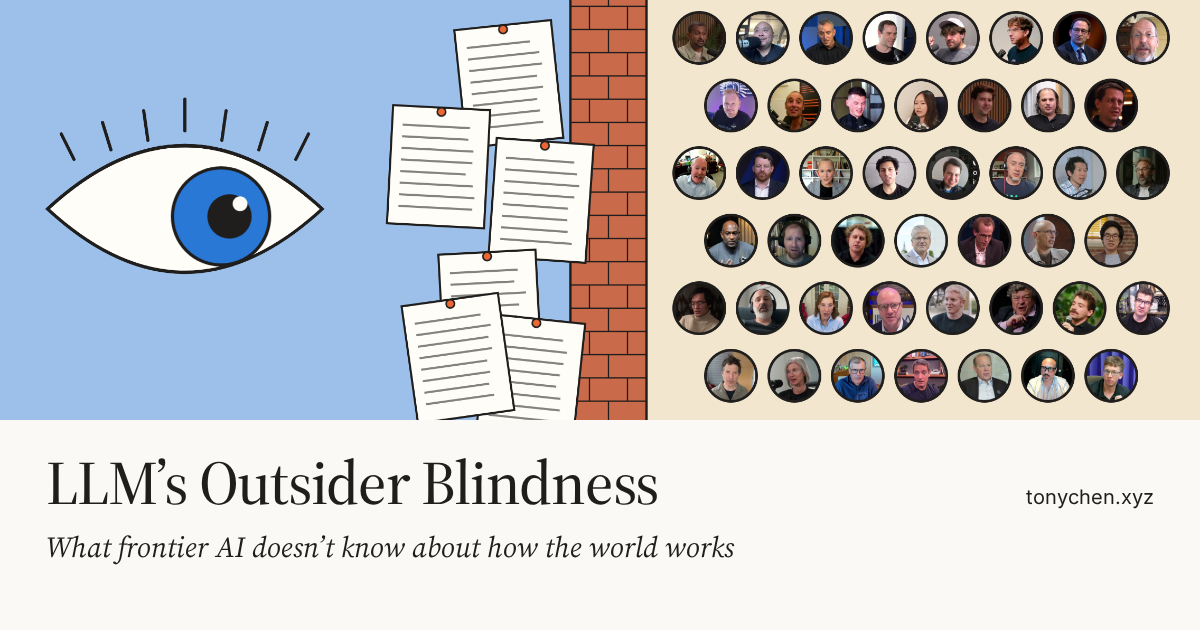
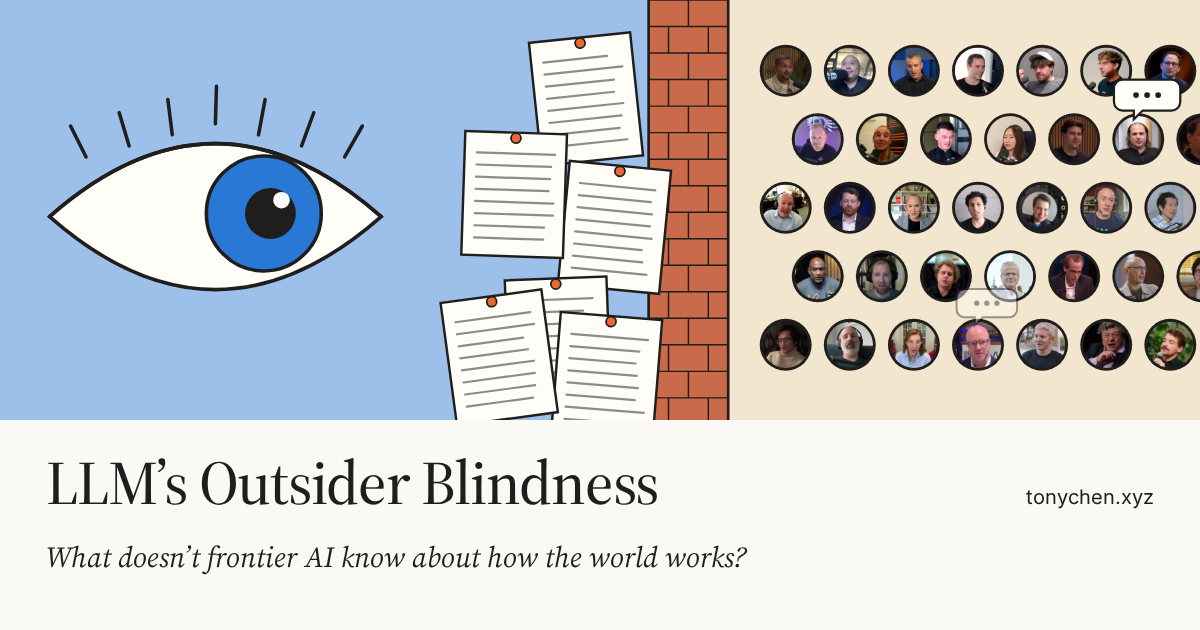
Outsider Blindness: animated link preview, subtitle as a question, new preview description
The link preview is now a seamless 8-second GIF of the cover art (the eye reads the papers and
blinks, speech bubbles come and go over the practitioners); its first frame is a complete still for
platforms that show only one frame. The subtitle reads 'What doesn't frontier AI know about how the
world works?', and the preview and blog-list description introduce InsiderBench and end with the
Era of Insider Information.

diff --git a/blog/outsider-blindness/index.html b/blog/outsider-blindness/index.html
@@ -1,11 +1,11 @@
 ---
 layout: research-note
 title: "LLM's Outsider Blindness"
-description: "Six frontier models answered 500 questions taken from podcast interviews with 100 practitioners in 20 industries. They missed more than half of what the practitioners said, and they mostly missed the same things."
+description: "We introduce InsiderBench, a dataset of 500 Q&A pairs from 100 podcast interviews with practitioners in 20 industries. Frontier LLMs today miss more than half of what the practitioners said. How can we close the gap? Welcome to the Era of Insider Information."
 date: 2026-11-26
 permalink: /blog/outsider-blindness/
 og_url: https://tonychen.xyz/blog/outsider-blindness/
-og_image: https://tonychen.xyz/blog/outsider-blindness/assets/preview.png
+og_image: https://tonychen.xyz/blog/outsider-blindness/assets/preview.gif
 og_width: 1200
 og_height: 630
 full_width: true
@@ -628,7 +628,7 @@ full_width: true
 <div class="obp" id="obp">
   <header class="mast">
     <h1>LLM’s Outsider Blindness</h1>
-    <p class="dek">What frontier AI doesn’t know about how the world works</p>
+    <p class="dek">What doesn’t frontier AI know about how the world works?</p>
     <div class="mast-row">
       <div class="by"><a class="me" href="https://tonychen.xyz/" aria-hidden="true" tabindex="-1"><img src="/assets/img/tony-avatar.jpg?v=2" alt=""></a><span>By <a href="https://tonychen.xyz/"><b>Tony Chen</b></a> · November 26, 2026</span></div>
       <div class="links">

diff --git a/research-notes/outsider-blindness/explorer/index.html b/research-notes/outsider-blindness/explorer/index.html
@@ -7,11 +7,11 @@
 <link rel="canonical" href="https://tonychen.xyz/blog/outsider-blindness/explorer/">
 <meta name="robots" content="noindex">
 <meta property="og:title" content="Explorer · LLM’s Outsider Blindness">
-<meta property="og:description" content="What frontier AI doesn’t know about how the world works.">
+<meta property="og:description" content="We introduce InsiderBench, a dataset of 500 Q&amp;A pairs from 100 podcast interviews with practitioners in 20 industries. Frontier LLMs today miss more than half of what the practitioners said. How can we close the gap? Welcome to the Era of Insider Information.">
 <meta property="og:url" content="https://tonychen.xyz/blog/outsider-blindness/explorer/">
-<meta property="og:image" content="https://tonychen.xyz/blog/outsider-blindness/assets/preview.png">
+<meta property="og:image" content="https://tonychen.xyz/blog/outsider-blindness/assets/preview.gif">
 <meta name="twitter:card" content="summary_large_image">
-<meta name="twitter:image" content="https://tonychen.xyz/blog/outsider-blindness/assets/preview.png">
+<meta name="twitter:image" content="https://tonychen.xyz/blog/outsider-blindness/assets/preview.gif">
 <script>location.replace('/blog/outsider-blindness/explorer/' + location.search + location.hash);</script>
 <meta http-equiv="refresh" content="0; url=/blog/outsider-blindness/explorer/">
 </head>

diff --git a/research-notes/outsider-blindness/index.html b/research-notes/outsider-blindness/index.html
@@ -7,11 +7,11 @@
 <link rel="canonical" href="https://tonychen.xyz/blog/outsider-blindness/">
 <meta name="robots" content="noindex">
 <meta property="og:title" content="LLM’s Outsider Blindness">
-<meta property="og:description" content="What frontier AI doesn’t know about how the world works.">
+<meta property="og:description" content="We introduce InsiderBench, a dataset of 500 Q&amp;A pairs from 100 podcast interviews with practitioners in 20 industries. Frontier LLMs today miss more than half of what the practitioners said. How can we close the gap? Welcome to the Era of Insider Information.">
 <meta property="og:url" content="https://tonychen.xyz/blog/outsider-blindness/">
-<meta property="og:image" content="https://tonychen.xyz/blog/outsider-blindness/assets/preview.png">
+<meta property="og:image" content="https://tonychen.xyz/blog/outsider-blindness/assets/preview.gif">
 <meta name="twitter:card" content="summary_large_image">
-<meta name="twitter:image" content="https://tonychen.xyz/blog/outsider-blindness/assets/preview.png">
+<meta name="twitter:image" content="https://tonychen.xyz/blog/outsider-blindness/assets/preview.gif">
 <script>location.replace('/blog/outsider-blindness/' + location.search + location.hash);</script>
 <meta http-equiv="refresh" content="0; url=/blog/outsider-blindness/">
 </head>

diff --git a/_posts/2026-11-26-outsider-blindness.html b/_posts/2026-11-26-outsider-blindness.html
@@ -2,7 +2,7 @@
 layout: none
 title: "LLM’s Outsider Blindness"
 date: 2026-11-26 12:00:00
-description: "What frontier AI doesn’t know about how the world works. Six frontier models answered 500 questions from podcast interviews with 100 practitioners, and missed more than half of what the practitioners said."
+description: "We introduce InsiderBench, a dataset of 500 Q&A pairs from 100 podcast interviews with practitioners in 20 industries. Frontier LLMs today miss more than half of what the practitioners said. How can we close the gap? Welcome to the Era of Insider Information."
 redirect: /blog/outsider-blindness/
 thumbnail: /assets/img/blog/outsider-blindness.svg
 permalink: /blog/2026/outsider-blindness/
